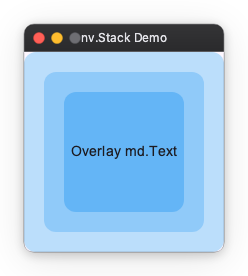
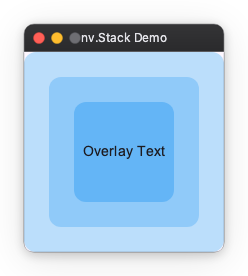
fix(docs): make the Stack demo and guide match actual layout behavior
Under the weight semantics unified in #349, every child of a Stack is the
sole claimant on its axis, so the demo's three "wt" cards all resolved to
the full 200x200 and the topmost one covered the rest. The sample rendered
as a single flat box and the committed screenshot, captured before #349,
no longer matched the code printed above it.

Size the three cards with fixed values (200/150/100) so the nesting is
expressed by something the sizing system can actually represent, and move
their colors from a background modifier onto CardStyle -- the modifier
painted behind the card's own opaque surface and never showed. Sync the
guide with the sample and document how a weight resolves on a Stack child.

A fraction-of-parent spec (e.g. Sizing.fraction(0.8)) was considered and
rejected: the fixed-value form reads fine, so the gap is not worth filling.

Closes #511

Changed region(s): [[0.254, 0.3188, 0.7621, 0.7826], [0.1694, 0.2609, 0.8468, 0.8406]]

diff --git a/samples/layout/extras/stack_demo.py b/samples/layout/extras/stack_demo.py
@@ -7,23 +7,27 @@ def main(png: str = ""):
         height=200,
         alignment="center",  # デフォルトの配置位置
         children=[
-            # 1. 背景（奥）
+            # 1. 背景（奥）。Stack の子はそれぞれが軸の唯一の請求者なので、
+            #    重なりを見せるには "wt" ではなく固定サイズを使う。
             nv.Card(
                 nv.Text(""),
-                width="wt",
-                height="wt",
-            ).modifier(nv.background("#BBDEFB")),
+                width=200,
+                height=200,
+                style=nv.CardStyle(background="#BBDEFB"),
+            ),
             nv.Card(
                 nv.Text(""),
-                width="wt",
-                height="wt",
-            ).modifier(nv.background("#90CAF9")),
+                width=150,
+                height=150,
+                style=nv.CardStyle(background="#90CAF9"),
+            ),
             nv.Card(
-                nv.Text("Overlay md.Text"),
-                width="wt",
-                height="wt",
+                nv.Text("Overlay Text"),
+                width=100,
+                height=100,
                 alignment="center",
-            ).modifier(nv.background("#64B5F6")),
+                style=nv.CardStyle(background="#64B5F6"),
+            ),
         ],
     )
 

diff --git a/src/nuiitivet/layout/spacer.py b/src/nuiitivet/layout/spacer.py
@@ -16,7 +16,7 @@ class Spacer(Widget):
     This single Spacer supports both fixed-size and space-filling behavior.
 
     Args:
-        width: preferred width (int, "auto", "{f}%", or Sizing)
+        width: preferred width (int, "auto", "wt", "wt{n}", or Sizing)
         height: preferred height (same accepted formats as width)
     """
 

diff --git a/docs/guide/layout/extras.md b/docs/guide/layout/extras.md
@@ -14,29 +14,43 @@ Use this when you want to place text over a background image or display a notifi
 import nuiitivet.material as nv
 
 nv.Stack(
-    width=240,
+    width=200,
     height=200,
     alignment="center",  # Default alignment position
     children=[
         nv.Card(
             nv.Text(""),
-            width="wt",
-            height="wt",
-        ).modifier(nv.background("#BBDEFB")),
+            width=200,
+            height=200,
+            style=nv.CardStyle(background="#BBDEFB"),
+        ),
         nv.Card(
             nv.Text(""),
-            width="wt",
-            height="wt",
-        ).modifier(nv.background("#90CAF9")),
+            width=150,
+            height=150,
+            style=nv.CardStyle(background="#90CAF9"),
+        ),
         nv.Card(
             nv.Text("Overlay Text"),
-            width="wt",
-            height="wt",
+            width=100,
+            height=100,
             alignment="center",
-        ).modifier(nv.background("#64B5F6")),
+            style=nv.CardStyle(background="#64B5F6"),
+        ),
     ],
 )
 ```
+
+### Sizing a Stack child
+
+Stack children overlap instead of sharing an axis, so **every** weight child is
+the sole claimant on its axis: `width="wt"` on a Stack child means *fill the
+Stack*, not *take a share of it*. There is no fraction-of-parent spec — see
+[Sizing](sizing.md).
+
+That makes `"wt"` the right choice for a full-size layer (a scrim, or a
+transparent aligner holding a floating button), and fixed sizes the right choice
+for boxes that must nest inside each other, as above.
 
 ![Stack example](../../assets/layout_extras_stack.png)
 
